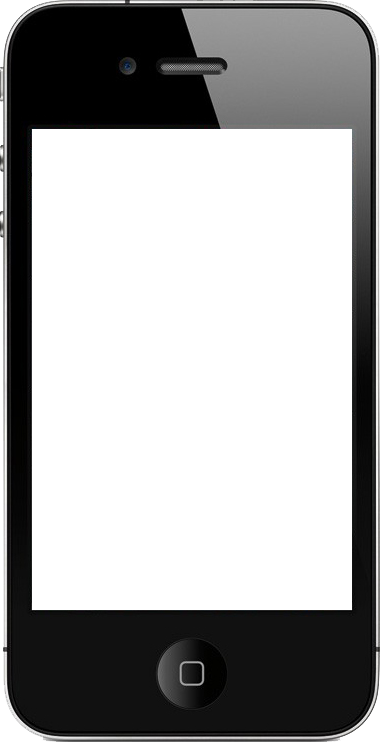
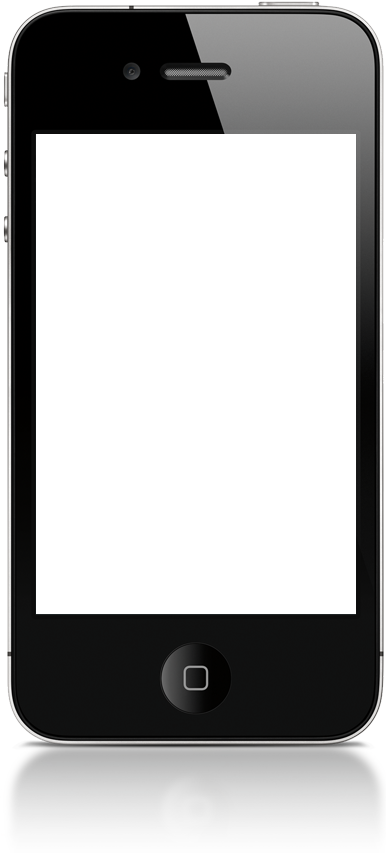
添加辅助功能模块，用来放置Home键
手机上打开莫名其妙报错，未找到原因。

Changed region(s): [[0.0, 0.0, 1.0, 1.0], [0.3184, 0.062, 0.3763, 0.124]]

diff --git a/script/view/VTopBar.js b/script/view/VTopBar.js
@@ -10,7 +10,8 @@ define( function( require, exports, module ){
             eventList : [
                 [ 'updateTime' ],
                 [ 'hideTopbar' ],
-                [ 'showTopbar' ]
+                [ 'topBarBlack' ],
+                [ 'rollBackTopbar' ]
             ]
         },
 
@@ -25,7 +26,16 @@ define( function( require, exports, module ){
             battery   : 'iOS_topBar_battery',
             leftIcon  : 'iOS_topBar_leftIcon',
             rightIcon : 'iOS_topBar_rightIcon',
-            centerIcon: 'iOS_topBar_centerIcon'
+            centerIcon: 'iOS_topBar_centerIcon',
+            topBarInitinfo : {
+                'color'     : 'rgba( 0, 0, 0, 0.3 )',
+                'marginTop' : '0'
+            }
+        },
+
+        values : {
+            topBarHeight : null,
+            topBarColor  : null
         },
 
         EupdateTime : function( time ){
@@ -33,12 +43,16 @@ define( function( require, exports, module ){
         },
 
         EhideTopbar : function(){
-            this._getEl().css( 'marginTop', '-20px' );
+            this._getEl().css( 'marginTop', '-'+ this.values.topBarHeight +'px' );
         },
 
-        EshowTopbar : function(){
-            this._getEl().css( 'marginTop', '0' );
-        },  
+        ErollBackTopbar : function(){
+            this._getEl().css( this.self.topBarInitinfo );
+        },
+
+        EtopBarBlack : function(){
+            this._getEl().css( 'background', 'rgba( 255, 255, 255, 1 )' );
+        },
 
         _initInnerDom : function(){
             var sttcs     = this.self,
@@ -56,12 +70,13 @@ define( function( require, exports, module ){
                     '<img src="'+ ( basePath + 'battery.png' ) +'" class="'+ sttcs.battery +' '+ sttcs.barIcon +'" />' +
                 '</div>';
             this._getEl().html( htmlData );
+            this.values.topBarHeight = this._getEl().height();
         },
 
         __updateTimeHandler : function( time ){
-            var sttcs = this.self,
-                centerIcon  = this._getElByCls( sttcs.centerIcon ),
-                htmlData = '<span class='+ sttcs.time +'>'+ time.hours +':'+ time.minute +'</span>';
+            var sttcs      = this.self,
+                centerIcon = this._getElByCls( sttcs.centerIcon ),
+                htmlData   = '<span class='+ sttcs.time +'>'+ time.hours +':'+ time.minute +'</span>';
             centerIcon.html( htmlData );
         }
     });

diff --git a/script/config/global.js b/script/config/global.js
@@ -9,6 +9,7 @@ define( function( require, exports, module ){
         AppScreen   = require( '../model/AppScreen' ),
         PopScreen   = require( '../model/PopScreen' ),
         Home        = require( '../model/Home' ),
+        AssistiveScreen = require( '../model/AssistiveScreen' ),
         VIOS        = require( '../view/VIOS' ),
         VTopBar     = require( '../view/VTopBar' ),
         VIconScreen = require( '../view/VIconScreen' ),
@@ -16,12 +17,14 @@ define( function( require, exports, module ){
         VAppScreen  = require( '../view/VAppScreen' ),
         VPopScreen  = require( '../view/VPopScreen' ),
         VHome       = require( '../view/VHome' ),
+        VAssistiveScreen = require( '../view/VAssistiveScreen' ),
         CTopBar     = require( '../controller/CTopBar' ),
         CLockScreen = require( '../controller/CLockScreen' ),
         CAppScreen  = require( '../controller/CAppScreen' ),
         CPopScreen  = require( '../controller/CPopScreen' ),
         CIconScreen = require( '../controller/CIconScreen' ),
-        CHome       = require( '../controller/CHome' );
+        CHome       = require( '../controller/CHome' ),
+        CAssistiveScreen = require( '../controller/CAssistiveScreen' );
     return [{
         "class"      : TopBar,
         "clsList"    : [ 'iOS_topBar' ],
@@ -60,16 +63,22 @@ define( function( require, exports, module ){
         }, {
             "class"      : AppScreen,
             "clsList"    : [ "iOS_appScreen" ],
-            // "visiable"   : false,
             "name"       : "appScreen",
             "view"       : VAppScreen,
             "controller" : CAppScreen
+        }, {
+            "class"      : AssistiveScreen,
+            "clsList"    : [ 'iOS_assisScreen' ],
+            "name"       : "assisScreen",
+            "visiable"   : false,
+            "view"       : VAssistiveScreen,
+            "controller" : CAssistiveScreen
         }]
     }, {
         "class"      : Home,
         "clsList"    : [ 'iOS_home_button' ],
         "name"       : 'home',
         "view"       : VHome,
-        "controller" : CHome    
+        "controller" : CHome
     }];
 });

diff --git a/script/controller/CTopBar.js b/script/controller/CTopBar.js
@@ -10,7 +10,8 @@ define( function( require, exports, module ){
             eventList : [
                 [ 'updateTime' ],
                 [ 'hideTopbar' ],
-                [ 'showTopbar' ]
+                [ 'topBarBlack' ],
+                [ 'rollBackTopbar' ]
             ]
         },
 
@@ -26,8 +27,12 @@ define( function( require, exports, module ){
             this.self.Util.notify( this.values.view, 'hideTopbar' );
         },
 
-        EshowTopbar : function(){
-            this.self.Util.notify( this.values.view, 'showTopbar' );
+        ErollBackTopbar : function(){
+            this.self.Util.notify( this.values.view, 'rollBackTopbar' );
+        },
+
+        EtopBarBlack : function(){
+            this.self.Util.notify( this.values.view, 'topBarBlack' );
         }
 
     });

diff --git a/css/iOS.css b/css/iOS.css
@@ -1,7 +1,7 @@
 body { background-color: #25262B; -webkit-box-orient: vertical; overflow: hidden }
 
-#iOS_outSide_bg { width: 380px; height: 742px; margin: 0 auto; background-image: url(../resource/images/background/iphone-bg.png) }
-#iOS_system_content { -webkit-box-orient : vertical; width: 320px; height: 480px; -webkit-transform: translate3d( 32px, 129px, 0 ); overflow: hidden }
+#iOS_outSide_bg { width: 386px; height: 853px; margin: 0 auto; background-image: url(../resource/images/background/iphone-bg.png) }
+#iOS_system_content { -webkit-box-orient : vertical; width: 320px; height: 480px; -webkit-transform: translate3d( 36px, 134px, 0 ); overflow: hidden }
 
 /**
  * bootScreen

diff --git a/script/model/TopBar.js b/script/model/TopBar.js
@@ -44,7 +44,7 @@ define( function( require, exports, module ){
         },
 
         __closeAppHandle : function(){
-            this.self.Util.notify( this.values.controller, 'showTopbar' );
+            this.self.Util.notify( this.values.controller, 'rollBackTopbar' );
         }
     });
 

diff --git a/script/controller/CAssistiveScreen.js b/script/controller/CAssistiveScreen.js
@@ -1,0 +1,12 @@
+
+define( function( require, exports, module ){
+    "use strick";
+
+    require( './BaseController' );
+    Ext.define( 'CAssistiveScreen', {
+        extend : 'BaseController'
+
+    });
+
+    return CAssistiveScreen;
+});

diff --git a/script/view/VAssistiveScreen.js b/script/view/VAssistiveScreen.js
@@ -1,0 +1,12 @@
+
+define( function( require, exports, module ){
+    "use strick";
+
+    require( './BaseView' );
+    Ext.define( 'VAssistiveScreen', {
+        extend : 'BaseView'
+
+    });
+
+    return VAssistiveScreen;
+});

diff --git a/script/model/AssistiveScreen.js b/script/model/AssistiveScreen.js
@@ -1,0 +1,11 @@
+
+define( function( require, exports, module ){
+    "use strick";
+
+    require( './BaseModel' );
+    Ext.define( 'AssistiveScreen', {
+        extend : 'BaseModel'
+    });
+
+    return AssistiveScreen;
+});
